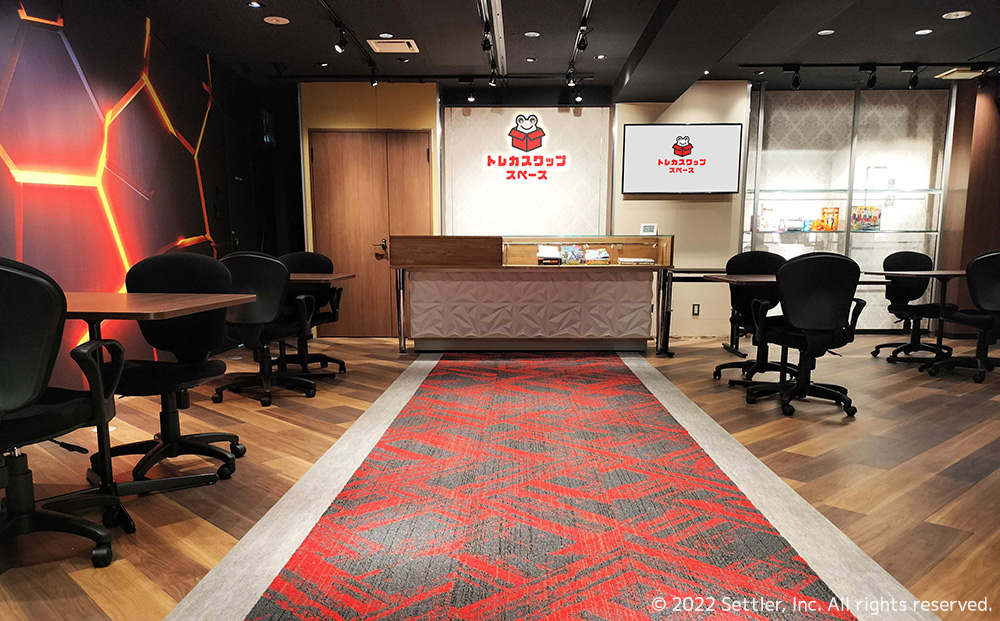
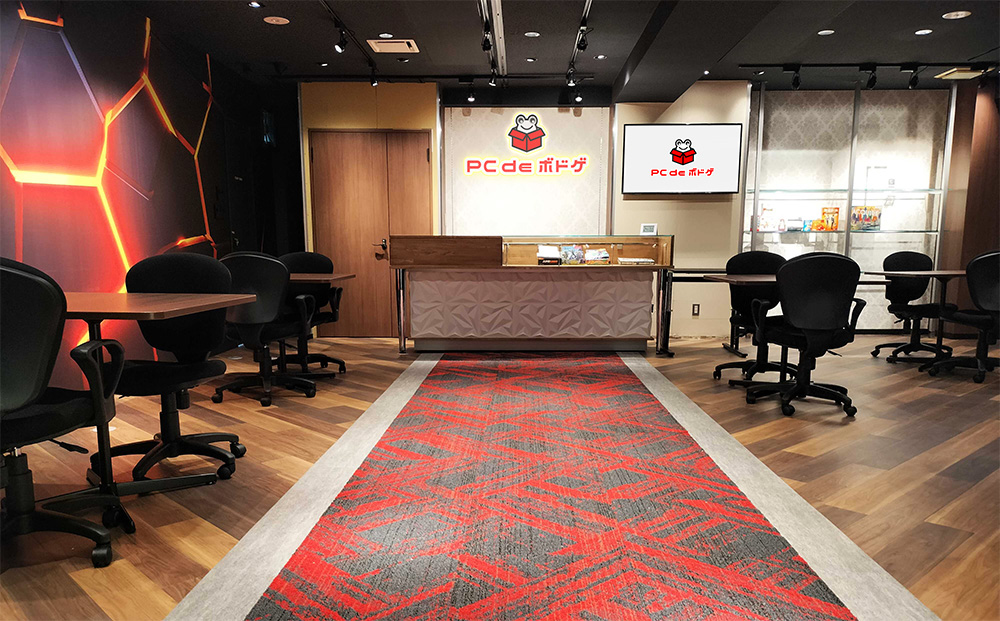
ロゴ変更

Changed region(s): [[0.651, 0.9485, 0.992, 1.0], [0.465, 0.2448, 0.589, 0.306], [0.651, 0.2142, 0.713, 0.306]]

diff --git a/public/space/index.html b/public/space/index.html
@@ -126,7 +126,7 @@
     <div class="wrapper">
 
     <header class="c-header c-hamburger-menu"><!-- 追記 クラスを追記 -->
-      <a href="#" class="c-header__logo"><img style="width: 100%;" src="images/logo.svg" alt="" /></a>
+      <a href="#" class="c-header__logo"><img style="width: 100%;" src="images/pcdebodoge_logo_black.svg" alt="" /></a>
 
       <input type="checkbox" name="hamburger" id="hamburger" class="c-hamburger-menu__input"/><!-- 追記 idはlabelのforと同じにする -->
       <label for="hamburger" class="c-hamburger-menu__bg"></label><!-- 追記 ハンバーガーメニュを開いた時の背景 -->
@@ -162,7 +162,7 @@
     <section class="mv">
     <div class="text_area">
       <h1>
-        PCでボドゲ<wbr>するなら秋葉原の<br>「トレカスワップ<wbr>スペース」
+        PCでボドゲ<wbr>するなら秋葉原の<br><span class="font50" style="margin-left: -0.5em;">「PC de ボドゲ」</span>
       </h1>
       <div class="catch">
     <!-- <p class="l-MV__text p-MV__text"> -->
@@ -270,7 +270,7 @@
     <section class="category_2">
       <div class="category_2__title"><img src="images/squre3.svg"><span class="title_text">イベント</span><img src="images/squre3.svg"></div>
       <div class="category_2__calendar_waku">
-          <p>トレカスワップスペース<wbr>貸切状況</p>
+          <p>PC de ボドゲ <wbr>貸切状況</p>
           <!-- <iframe src="https://calendar.google.com/calendar/embed?src=c_1882nb2cvcodaippnjnf7aau1ku4s%40resource.calendar.google.com&ctz=Asia%2FTokyo&bgcolor=%23e3e9ff&showTabs=0&showTz=0" style="border:none;" width="800" height="600" frameborder="0" scrolling="no"></iframe> -->
         <div id="calendar"></div>
       </div>
@@ -281,7 +281,7 @@
     <section>
       
       <div class="shop">
-        トレカスワップスペース<wbr>店内
+        PC de ボドゲ <wbr>店内
         <p class="padding_20"></p>
         <div class="image_3d">
       <span>

diff --git a/public/space/css/style.css b/public/space/css/style.css
@@ -152,9 +152,9 @@ main.scss
 .mv h1 {
   word-break: keep-all;
   font-size: min(8vw, 35px);
-  line-height: 1.2em;
+  line-height: 1.5em;
   letter-spacing: 0.1em;
-  padding-right: 3.5em;
+  padding-right: 0em;
 }
 .mv .text_area {
   padding-top: min(1vw, 40px);
@@ -621,7 +621,7 @@ hamburger.scss
   box-sizing: border-box;
   display: flex;
   justify-content: space-between;
-  padding: 1rem 2rem; /* カスタマイズしてください */
+  padding: 1rem; /* カスタマイズしてください */
   width: 100%;
   font-size: min(6vw, 20px);
 }
@@ -630,7 +630,7 @@ hamburger.scss
   color: #000; /* カスタマイズしてください */
   min-width: 80px; /* カスタマイズしてください */
   text-decoration: none;
-  padding: 1.5vh 2vw 0;
+  padding: 1.5vh 0vw 0;
 }
 
 .c-header__list {

diff --git a/public/space/css/_hamburger.scss b/public/space/css/_hamburger.scss
@@ -9,7 +9,7 @@ hamburger.scss
   box-sizing: border-box;
   display: flex;
   justify-content: space-between;
-  padding: 1rem 2rem; /* カスタマイズしてください */
+  padding: 1rem; /* カスタマイズしてください */
   width: 100%;
   @include font20;
 }
@@ -22,7 +22,7 @@ hamburger.scss
   // display: flex;
   // justify-content: space-between;
   // align-items: center;
-  padding: 1.5vh 2vw 0;
+  padding: 1.5vh 0vw 0;
 }
 
 .c-header__list {

diff --git a/public/space/css/_main.scss b/public/space/css/_main.scss
@@ -52,9 +52,9 @@ main.scss
     // font-feature-settings: "palt";
     word-break: keep-all;
     font-size: min(8vw,35px);
-    line-height: 1.2em;
+    line-height: 1.5em;
     letter-spacing: 0.1em;
-    padding-right: 3.5em;
+    padding-right: 0em;
     }
 
   .text_area{
